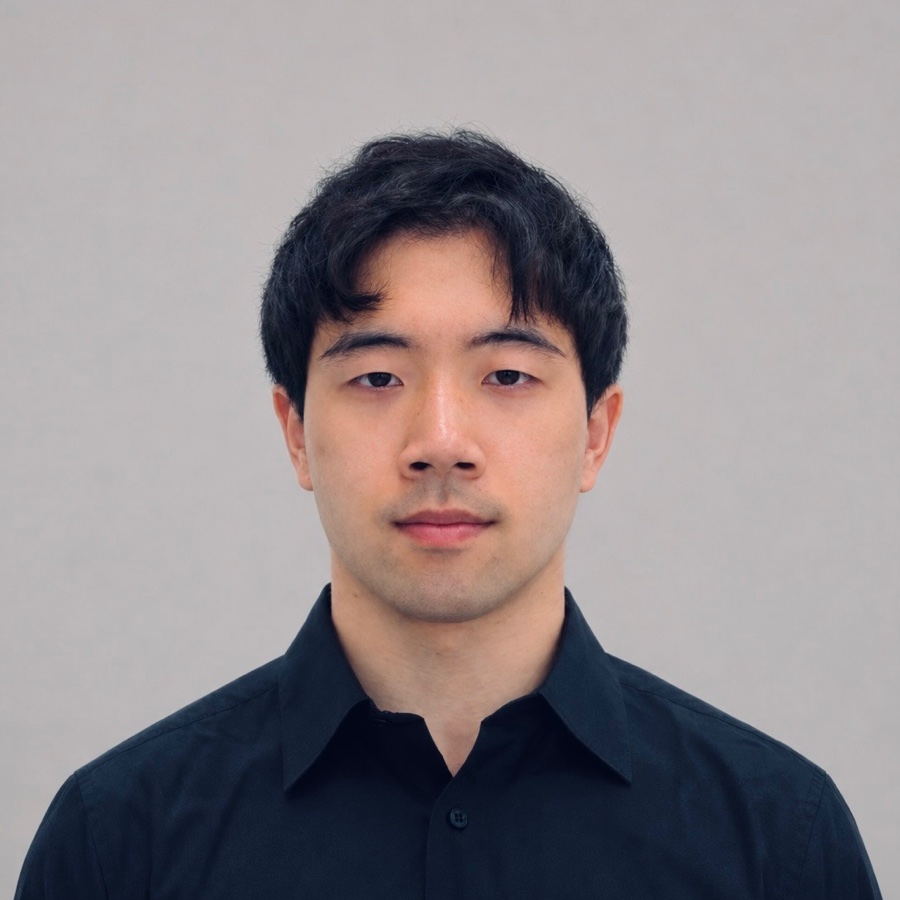
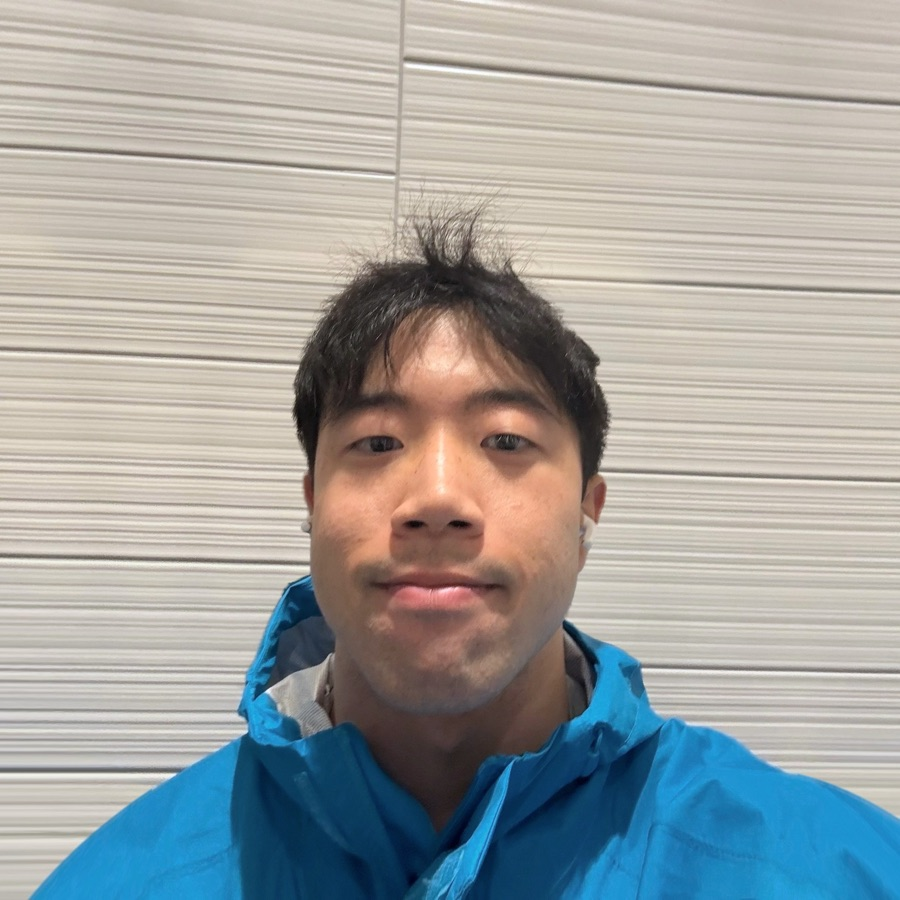
Use the new photo on the home page
Made from src/assets/profile_new.png, which is already square: scaled
from 1728x1728 to 900x900 with no crop, and saved as a JPEG tagged sRGB.
Its description now matches the new photo. The same file is the
site's link preview image, so previews show the new photo too.

diff --git a/src/lib/site.ts b/src/lib/site.ts
@@ -14,7 +14,7 @@ export const SHORT_NAME = "Davin Kyi";
 export const PERSON_ID = `${SITE_URL}/#person`;
 
 // What the two portraits show: their alt text, and the description built into the files.
-export const HOME_PORTRAIT_ALT = `Head-and-shoulders portrait of ${FULL_NAME} in a dark collared shirt against a plain gray background`;
+export const HOME_PORTRAIT_ALT = `Head-and-shoulders portrait of ${FULL_NAME} in a bright blue jacket against a light tiled wall`;
 export const ABOUT_PORTRAIT_ALT = `${FULL_NAME} wearing a mixed-reality headset in front of a graffiti wall`;
 
 // A photo's entry in structured data: Davin Win Kyi took or made it (as confirmed) and is credited
